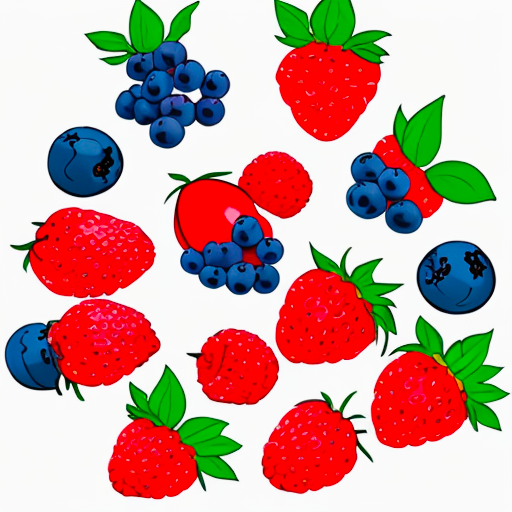
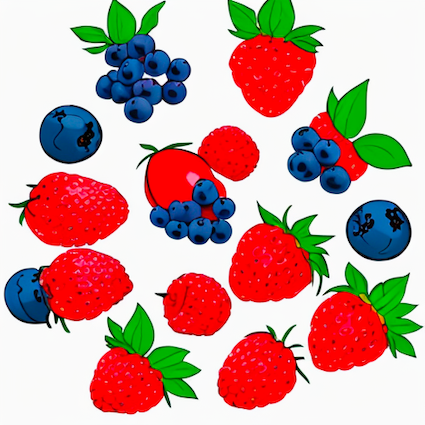
Auto-generated commit

diff --git a/404.html b/404.html
@@ -3,7 +3,7 @@
 <head>
   <meta charset="utf-8">
   <title>FrontAngular</title>
-  <base href="/event-sourced-games/">
+  <base href="/">
   <meta name="viewport" content="width=device-width, initial-scale=1, maximum-scale=1, user-scalable=no, viewport-fit=cover">
   <link rel="icon" type="image/x-icon" href="favicon.ico">
   <link rel="manifest" href="manifest.webmanifest">
@@ -12,5 +12,5 @@
 <body>
   <app-root></app-root>
   <noscript>Please enable JavaScript to continue using this application.</noscript>
-<script src="runtime.86a5ba23a06da633.js" type="module"></script><script src="polyfills.5a261cacaa3dbbab.js" type="module"></script><script src="main.00440278466dbc80.js" type="module"></script></body>
+<script src="runtime.86a5ba23a06da633.js" type="module"></script><script src="polyfills.5a261cacaa3dbbab.js" type="module"></script><script src="main.519542df923c2d2d.js" type="module"></script></body>
 </html>

diff --git a/index.html b/index.html
@@ -3,7 +3,7 @@
 <head>
   <meta charset="utf-8">
   <title>FrontAngular</title>
-  <base href="/event-sourced-games/">
+  <base href="/">
   <meta name="viewport" content="width=device-width, initial-scale=1, maximum-scale=1, user-scalable=no, viewport-fit=cover">
   <link rel="icon" type="image/x-icon" href="favicon.ico">
   <link rel="manifest" href="manifest.webmanifest">
@@ -12,5 +12,5 @@
 <body>
   <app-root></app-root>
   <noscript>Please enable JavaScript to continue using this application.</noscript>
-<script src="runtime.86a5ba23a06da633.js" type="module"></script><script src="polyfills.5a261cacaa3dbbab.js" type="module"></script><script src="main.00440278466dbc80.js" type="module"></script></body>
+<script src="runtime.86a5ba23a06da633.js" type="module"></script><script src="polyfills.5a261cacaa3dbbab.js" type="module"></script><script src="main.519542df923c2d2d.js" type="module"></script></body>
 </html>